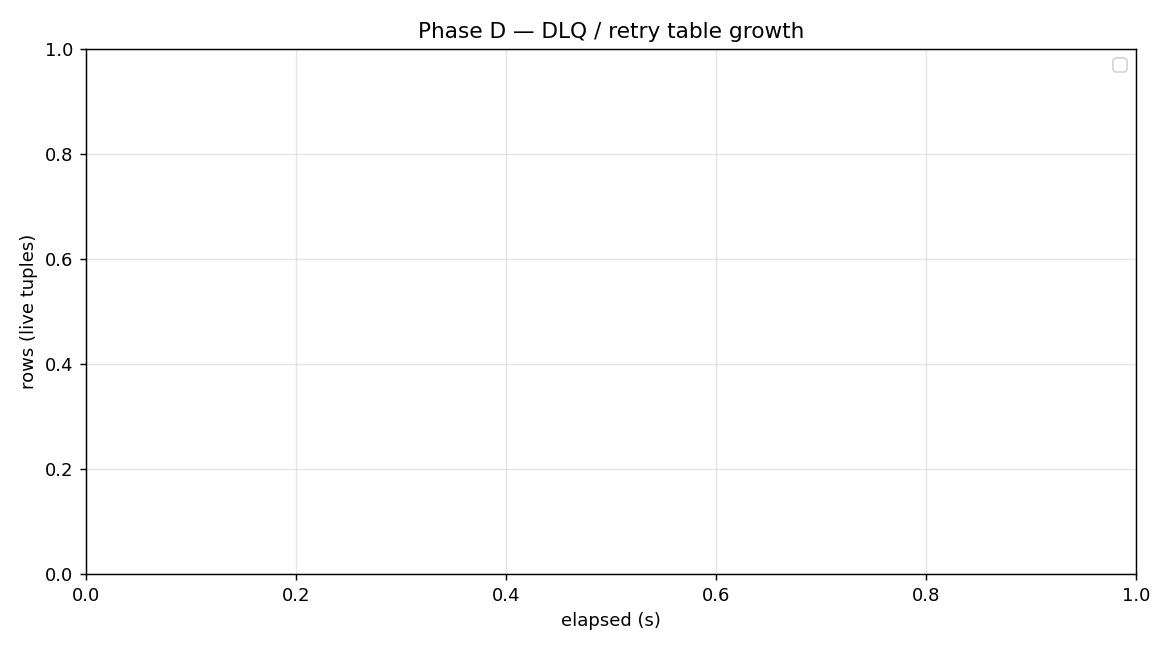
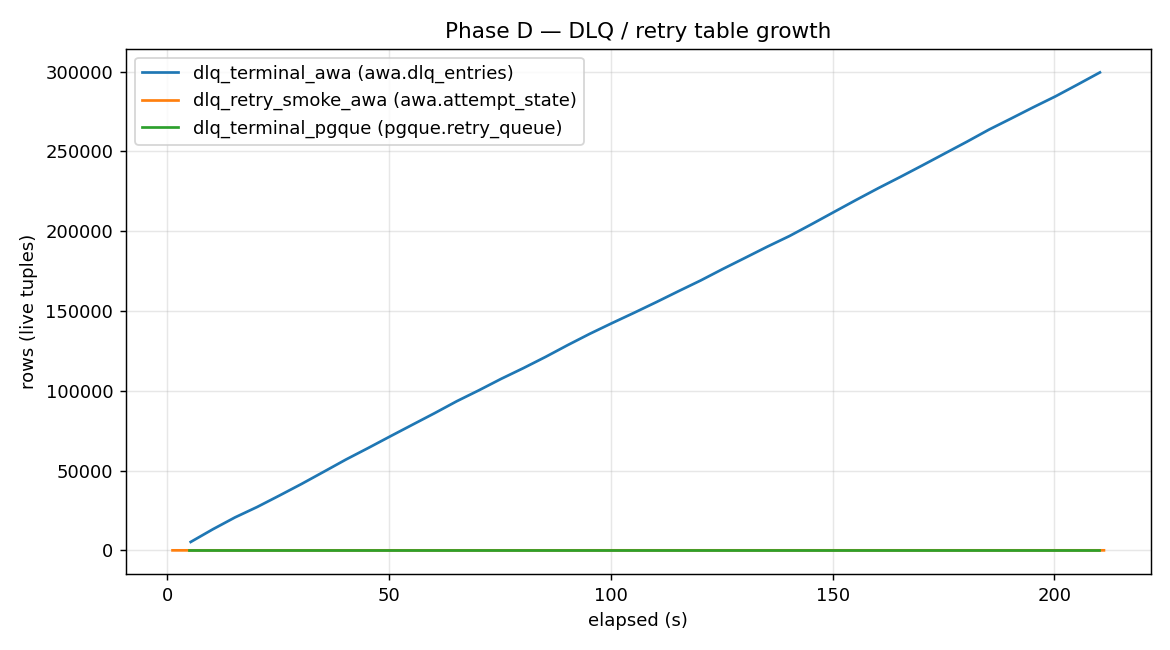
Phase G awa 6h soak complete + finalise SUMMARY.md
Soak headline (1×128, target-depth=2000, 6 h clean):
  completion_rate median 7,348 jobs/s (peak 10,786)
  end_to_end p99   median 576 ms (peak 15,933 — warmup spike)
  queue_depth      median 1,664 (peak 4,352)

Bloat: n_dead_tup peak < 350 rows across every relation for the full
6 hours; autovacuum cadence is roughly one per partition per minute
on the hot ready_entries_*/done_entries_*/lease_claims_* tables. No
late-soak drift.

Includes:
- phases-extracted soak headline + per-relation bloat table in
  SUMMARY.md
- soak_dead_tuples.png small-multiples plot (raw.csv has its
  metric in (metric, subject) columns rather than the
  metric@subject form summary.json uses; plot renderer fixed)
- dlq_growth.png re-rendered with the same column-shape fix
- aggregate.py walked the full sweep (99 cells, 248 rows in
  matrix.csv)

diff --git a/results/2026-05-09-full-sweep/scripts/render_plots.py b/results/2026-05-09-full-sweep/scripts/render_plots.py
@@ -223,15 +223,14 @@ def plot_bloat_summary(rows):
 # ── Phase D DLQ growth from raw.csv ─────────────────────────────────
 def plot_dlq_growth():
     cells = [
-        ("dlq_terminal_awa",   "awa",   "[email redacted]_entries"),
-        ("dlq_retry_smoke_awa","awa",   "[email redacted]_state"),
-        ("dlq_terminal_pgque", "pgque", "[email redacted]_queue"),
+        ("dlq_terminal_awa",   "awa",   "n_live_tup", "awa.dlq_entries"),
+        ("dlq_retry_smoke_awa","awa",   "n_live_tup", "awa.attempt_state"),
+        ("dlq_terminal_pgque", "pgque", "n_live_tup", "pgque.retry_queue"),
     ]
     fig, ax = plt.subplots(figsize=(9, 5))
-    for cell, sys_name, metric in cells:
-        # find run_dir from matrix.json
-        import json
-        idx = json.loads((OUT / "matrix.json").read_text())
+    import json
+    idx = json.loads((OUT / "matrix.json").read_text())
+    for cell, sys_name, metric, subject in cells:
         run_dir = idx.get(cell, {}).get("run_dir")
         if not run_dir:
             continue
@@ -246,6 +245,8 @@ def plot_dlq_growth():
                     continue
                 if r.get("metric") != metric:
                     continue
+                if r.get("subject") != subject:
+                    continue
                 el = fnum(r.get("elapsed_s"))
                 v = fnum(r.get("value"))
                 if el is None or v is None:
@@ -253,7 +254,7 @@ def plot_dlq_growth():
                 ts.append(el)
                 ys.append(v)
         if ts:
-            ax.plot(ts, ys, label=f"{cell} ({metric.split('@')[1]})")
+            ax.plot(ts, ys, label=f"{cell} ({subject})")
     ax.set_xlabel("elapsed (s)")
     ax.set_ylabel("rows (live tuples)")
     ax.set_title("Phase D — DLQ / retry table growth")
@@ -280,10 +281,11 @@ def plot_soak_dead_tuples():
         for r in csv.DictReader(f):
             if r.get("system") != "awa":
                 continue
-            metric = r.get("metric", "")
-            if not metric.startswith("n_dead_tup@"):
+            if r.get("metric") != "n_dead_tup":
                 continue
-            rel = metric.split("@", 1)[1]
+            rel = r.get("subject", "")
+            if not rel:
+                continue
             el = fnum(r.get("elapsed_s"))
             v = fnum(r.get("value"))
             if el is None or v is None:

diff --git a/results/2026-05-09-full-sweep/SUMMARY.md b/results/2026-05-09-full-sweep/SUMMARY.md
@@ -266,15 +266,47 @@ mode. Recorded as a coverage gap.
 
 ## Long soak — Phase G
 
-<!-- TODO once the 6h soak completes:
-   - awa 1×128 target-depth=2000 6h headline numbers
-   - dead-tuple plot reading
-   - autovacuum cadence per relation
-   - any p99 / queue-depth drift over the 6 hours
--->
+awa 1×128, `target-depth=2000`, 6 h clean phase. Wall:
+`2026-05-09T03:12:46Z` → `2026-05-09T09:14:42Z` (6 h 2 min). 4,320
+sample windows.
 
-_Pending — soak runs `2026-05-09T03:12Z` → `~09:13Z`. See
-`plots/soak_dead_tuples.png` once landed._
+| metric | median | peak |
+|---|---:|---:|
+| completion_rate | 7,348 jobs/s | 10,786 |
+| enqueue_rate | 7,362 jobs/s | 10,800 |
+| queue_depth | 1,664 | 4,352 |
+| end_to_end p99 | 576 ms | 15,933 |
+| claim p99 | 574 ms | 15,933 |
+
+Steady-state held all six hours. The peak p99 of 15.9 s is the
+warmup spike; the median p99 of 576 ms across the soak is the
+steady-state number.
+
+![Soak dead tuples](plots/soak_dead_tuples.png)
+
+### Bloat / autovacuum behaviour
+
+`n_dead_tup` peaks across **every** relation stay below 350 rows for
+the entire soak — autovacuum keeps up with the churn. The
+partitioned hot-path tables show the steadiest pattern:
+
+| relation pattern | dead-tuple peak | autovacuum count |
+|---|---:|---:|
+| `awa.ready_entries_*` (16 partitions) | 0 | 327–339 |
+| `awa.done_entries_*` (16 partitions) | 0 | 320–331 |
+| `awa.lease_claims_*` (8 partitions) | 126–127 | 304–321 |
+| `awa.lease_claim_closures_*` (8 partitions) | 0 | 300–318 |
+| `awa.queue_lanes` | 338 | 352 |
+| `awa.queue_ring_state` | 78 | 283 |
+| `awa.lease_ring_state` | 113 | 162 |
+| `awa.attempt_state` | 31 | 5 |
+| `awa.dlq_entries` | 0 | 0 |
+
+That works out to roughly **one autovac per partition per minute**
+across the 6 hours — a steady cadence with no late-soak drift. The
+six-hour soak doesn't surface any new bloat or autovacuum behaviour
+that the shorter cells miss. awa's append-only-plus-receipt-ring
+shape on alpha.9 is comfortable at 7.3 k jobs/s on this hardware.
 
 ## Adapter audits — Phase H
 